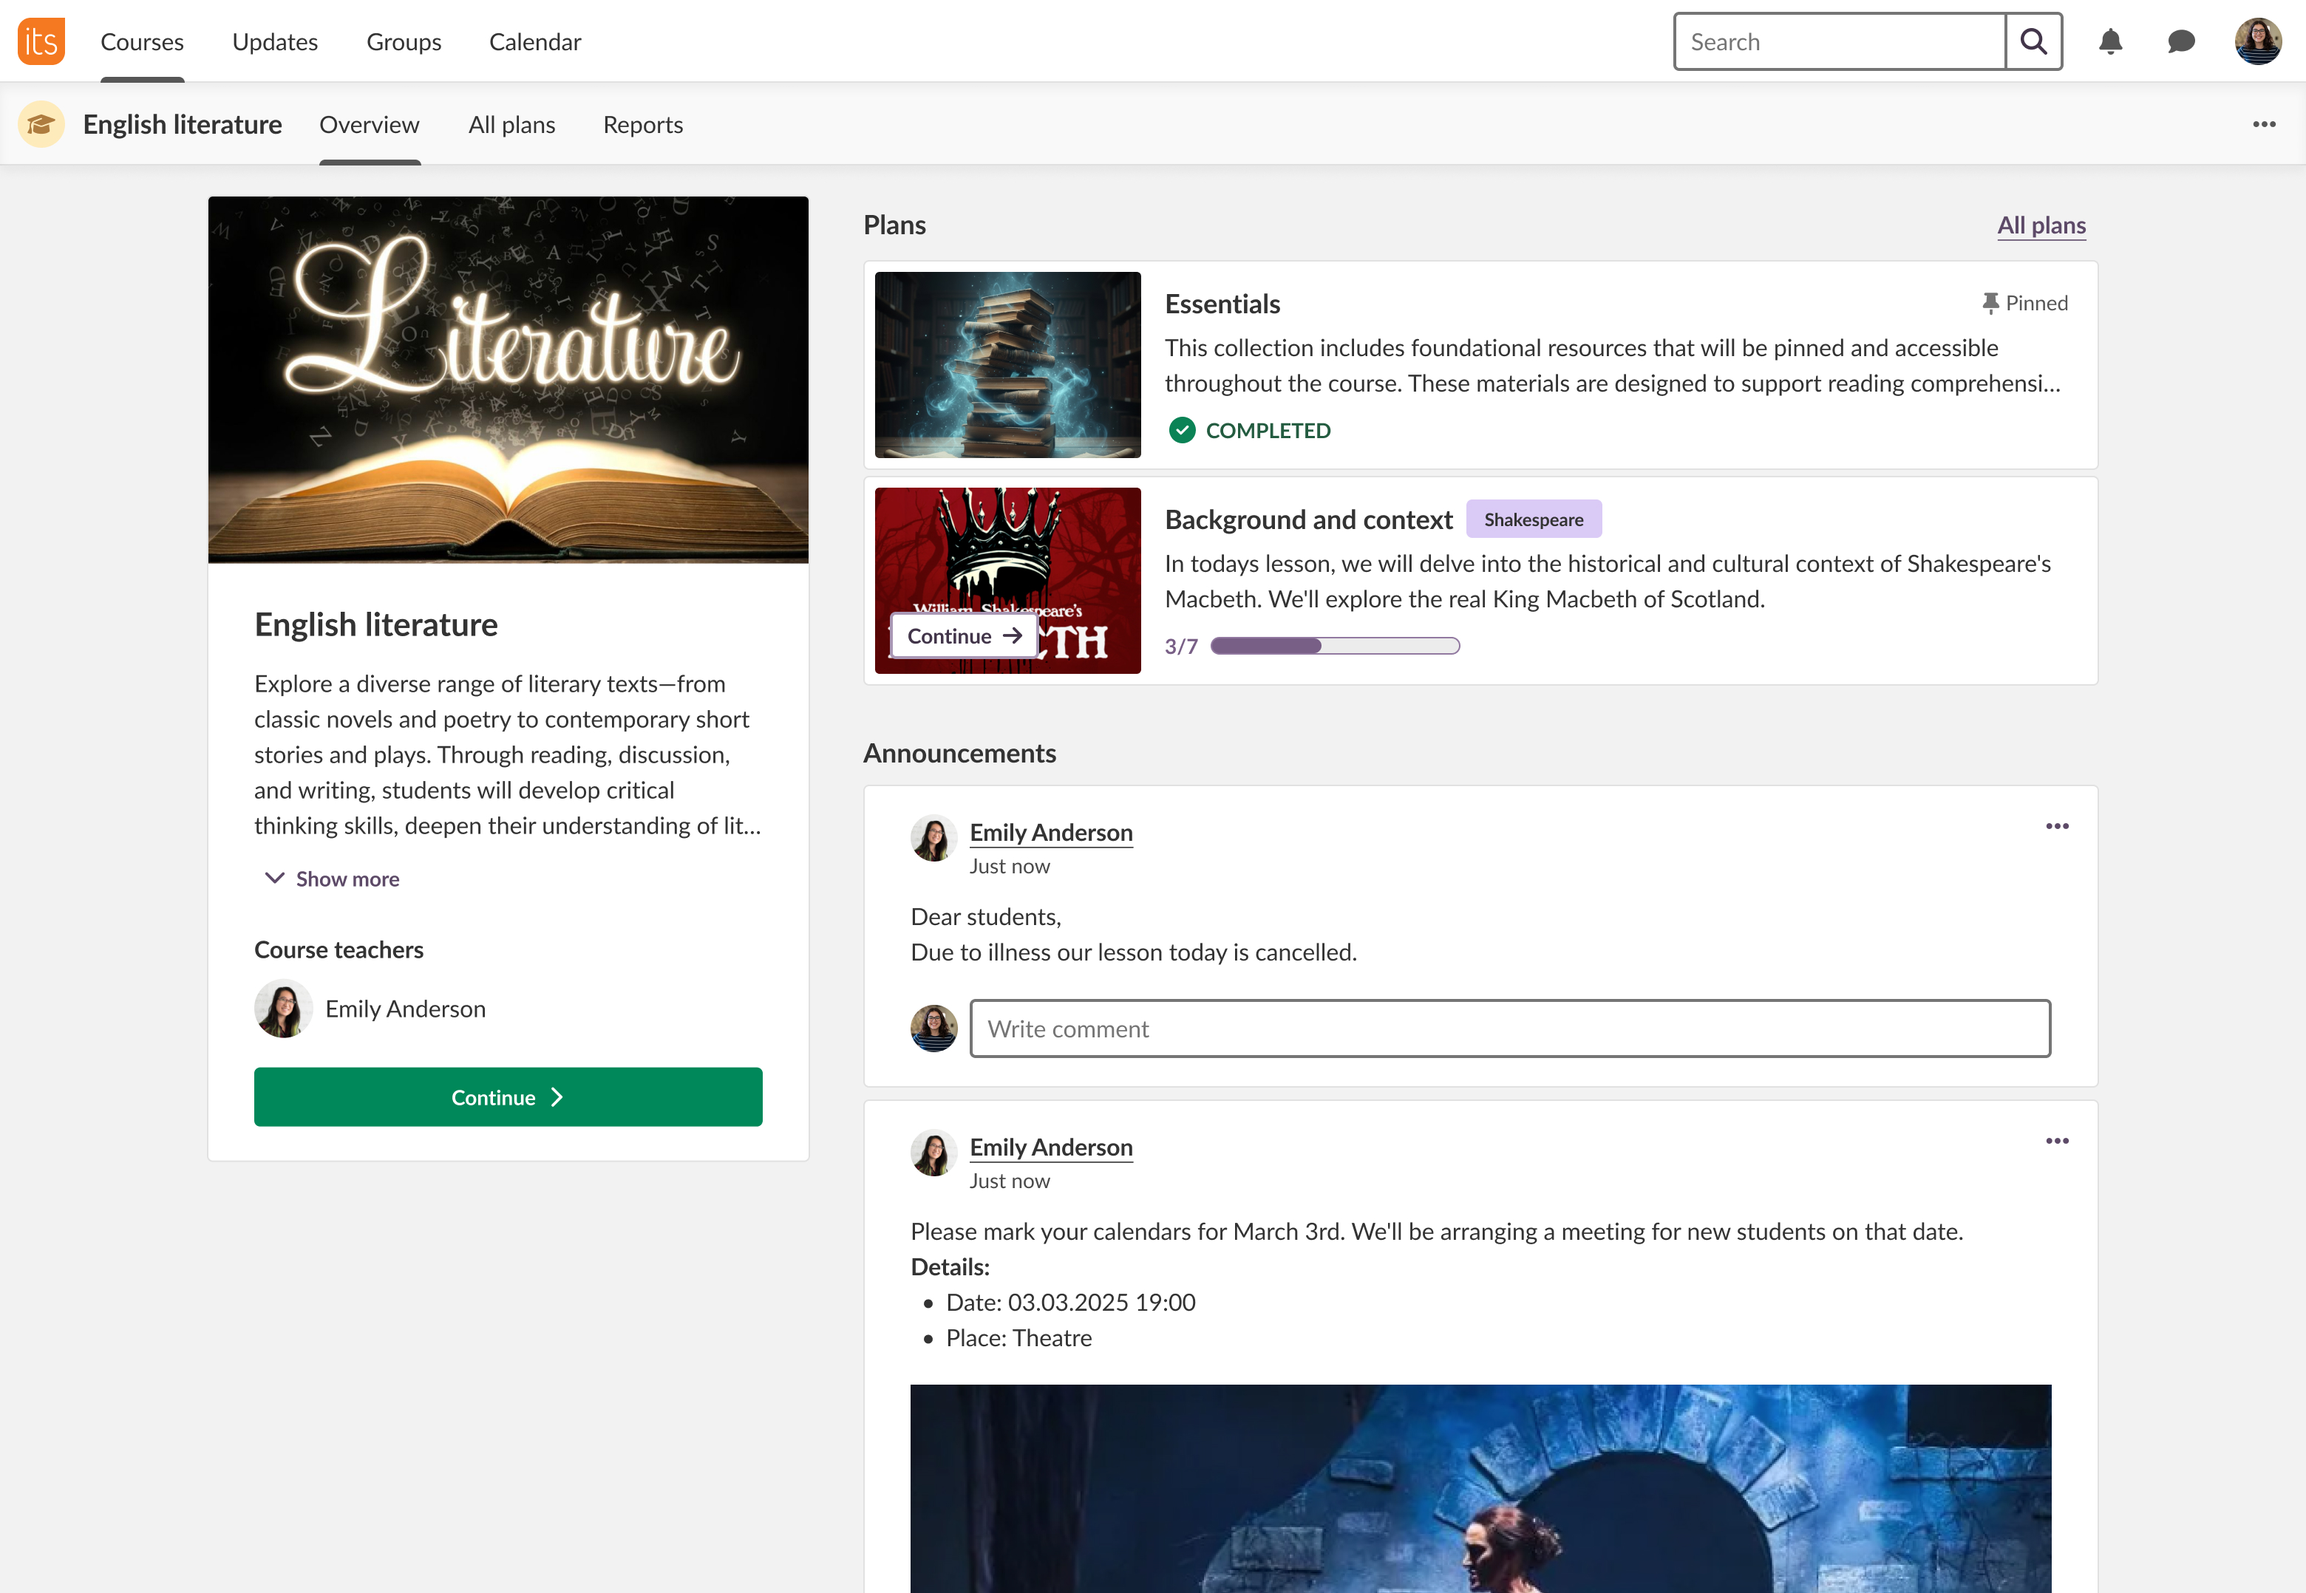
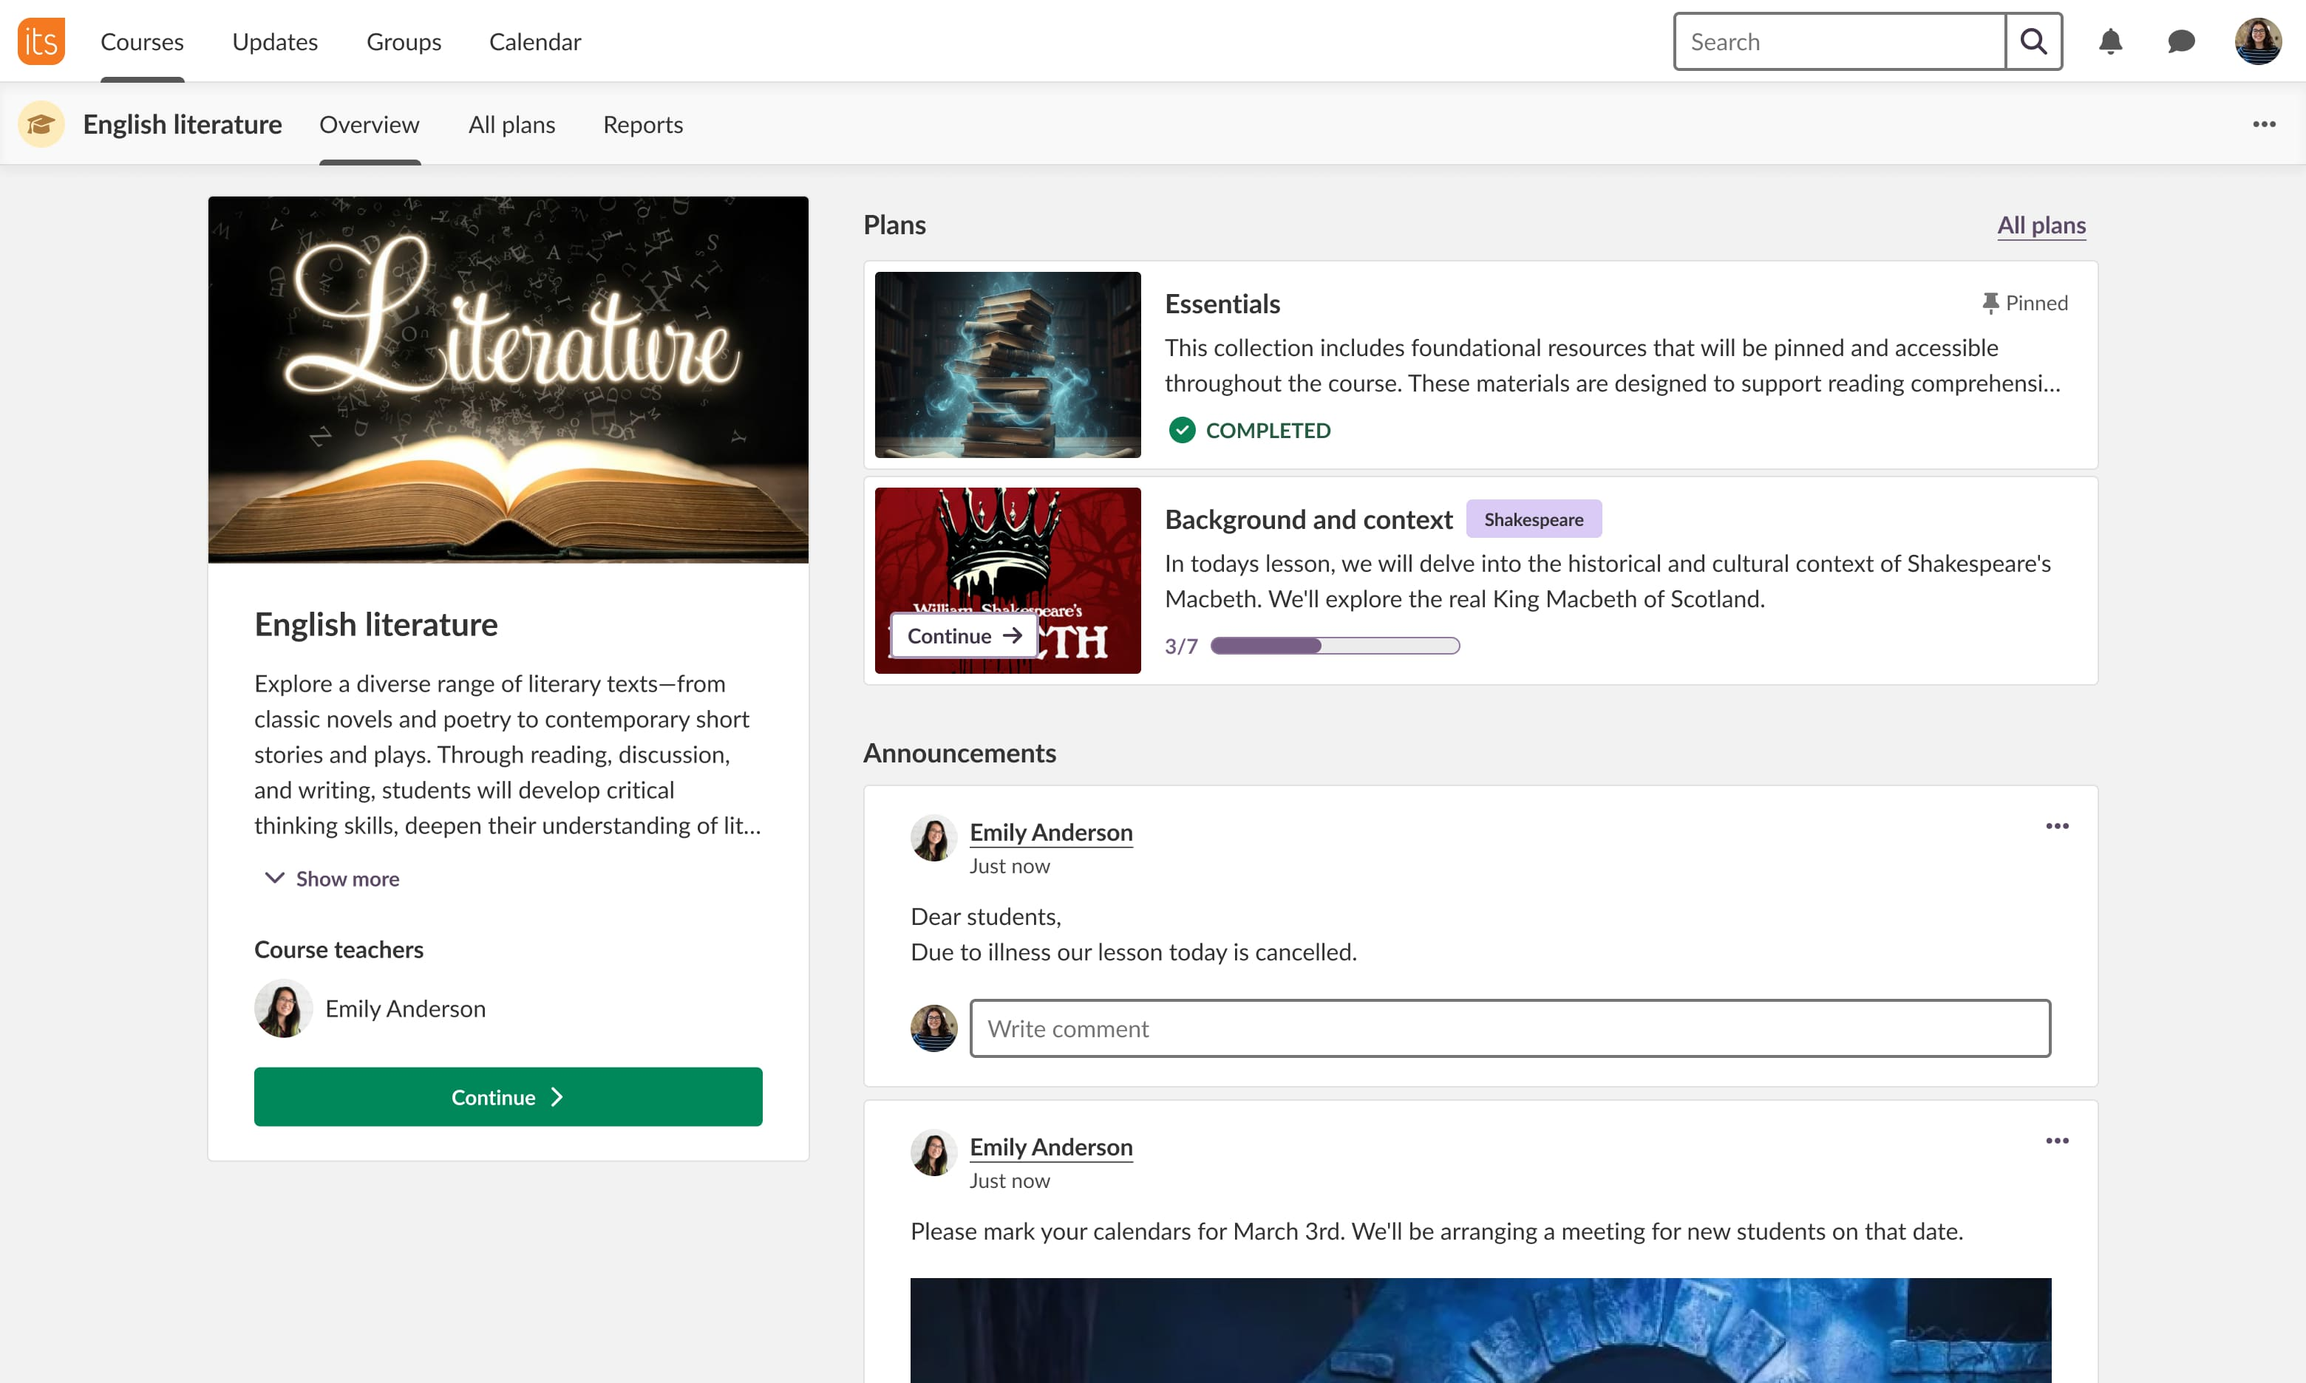
Image for LMS case updated

Changed region(s): [[0.0, 0.0, 0.9016, 1.0], [0.7151, 0.0, 0.9016, 0.062], [0.9638, 0.0, 0.9949, 0.062]]

diff --git a/itsleaning.html b/itsleaning.html
@@ -104,8 +104,8 @@
                         </figure>
                         
                         <figure class="illustration-with-caption">
-                            <img src="assets/projects/lms/lms-your-settings.jpg" alt="A list of personal setting categories, links are in 3 columns" class="illustration">
-                            <figcaption>Wide example: Multiple columns with link, has to be easily scannable</figcaption>
+                            <img src="assets/projects/lms/lms-course.jpg" alt="A list of personal setting categories, links are in 3 columns" class="illustration">
+                            <figcaption>Wide example: A course overview page, multiple columns, but text line required some limitation on bigger screens</figcaption>
                         </figure>
                         
                         <figure class="illustration-with-caption">
@@ -121,8 +121,8 @@
                                 <figcaption>A list of courses on a mobile screen</figcaption>
                             </figure>
                             <figure class="illustration-with-caption">
-                                <img src="assets/projects/lms/lms-your-settings-mobile.jpg" alt="" class="illustration">
-                                <figcaption>Setting categories on a mobile screen</figcaption>
+                                <img src="assets/projects/lms/lms-course-mobile.jpg" alt="" class="illustration">
+                                <figcaption>Course on a mobile screen</figcaption>
                             </figure>
                             <figure class="illustration-with-caption">
                                 <img src="assets/projects/lms/lms-profile-student-mobile.jpg" alt="" class="illustration">
